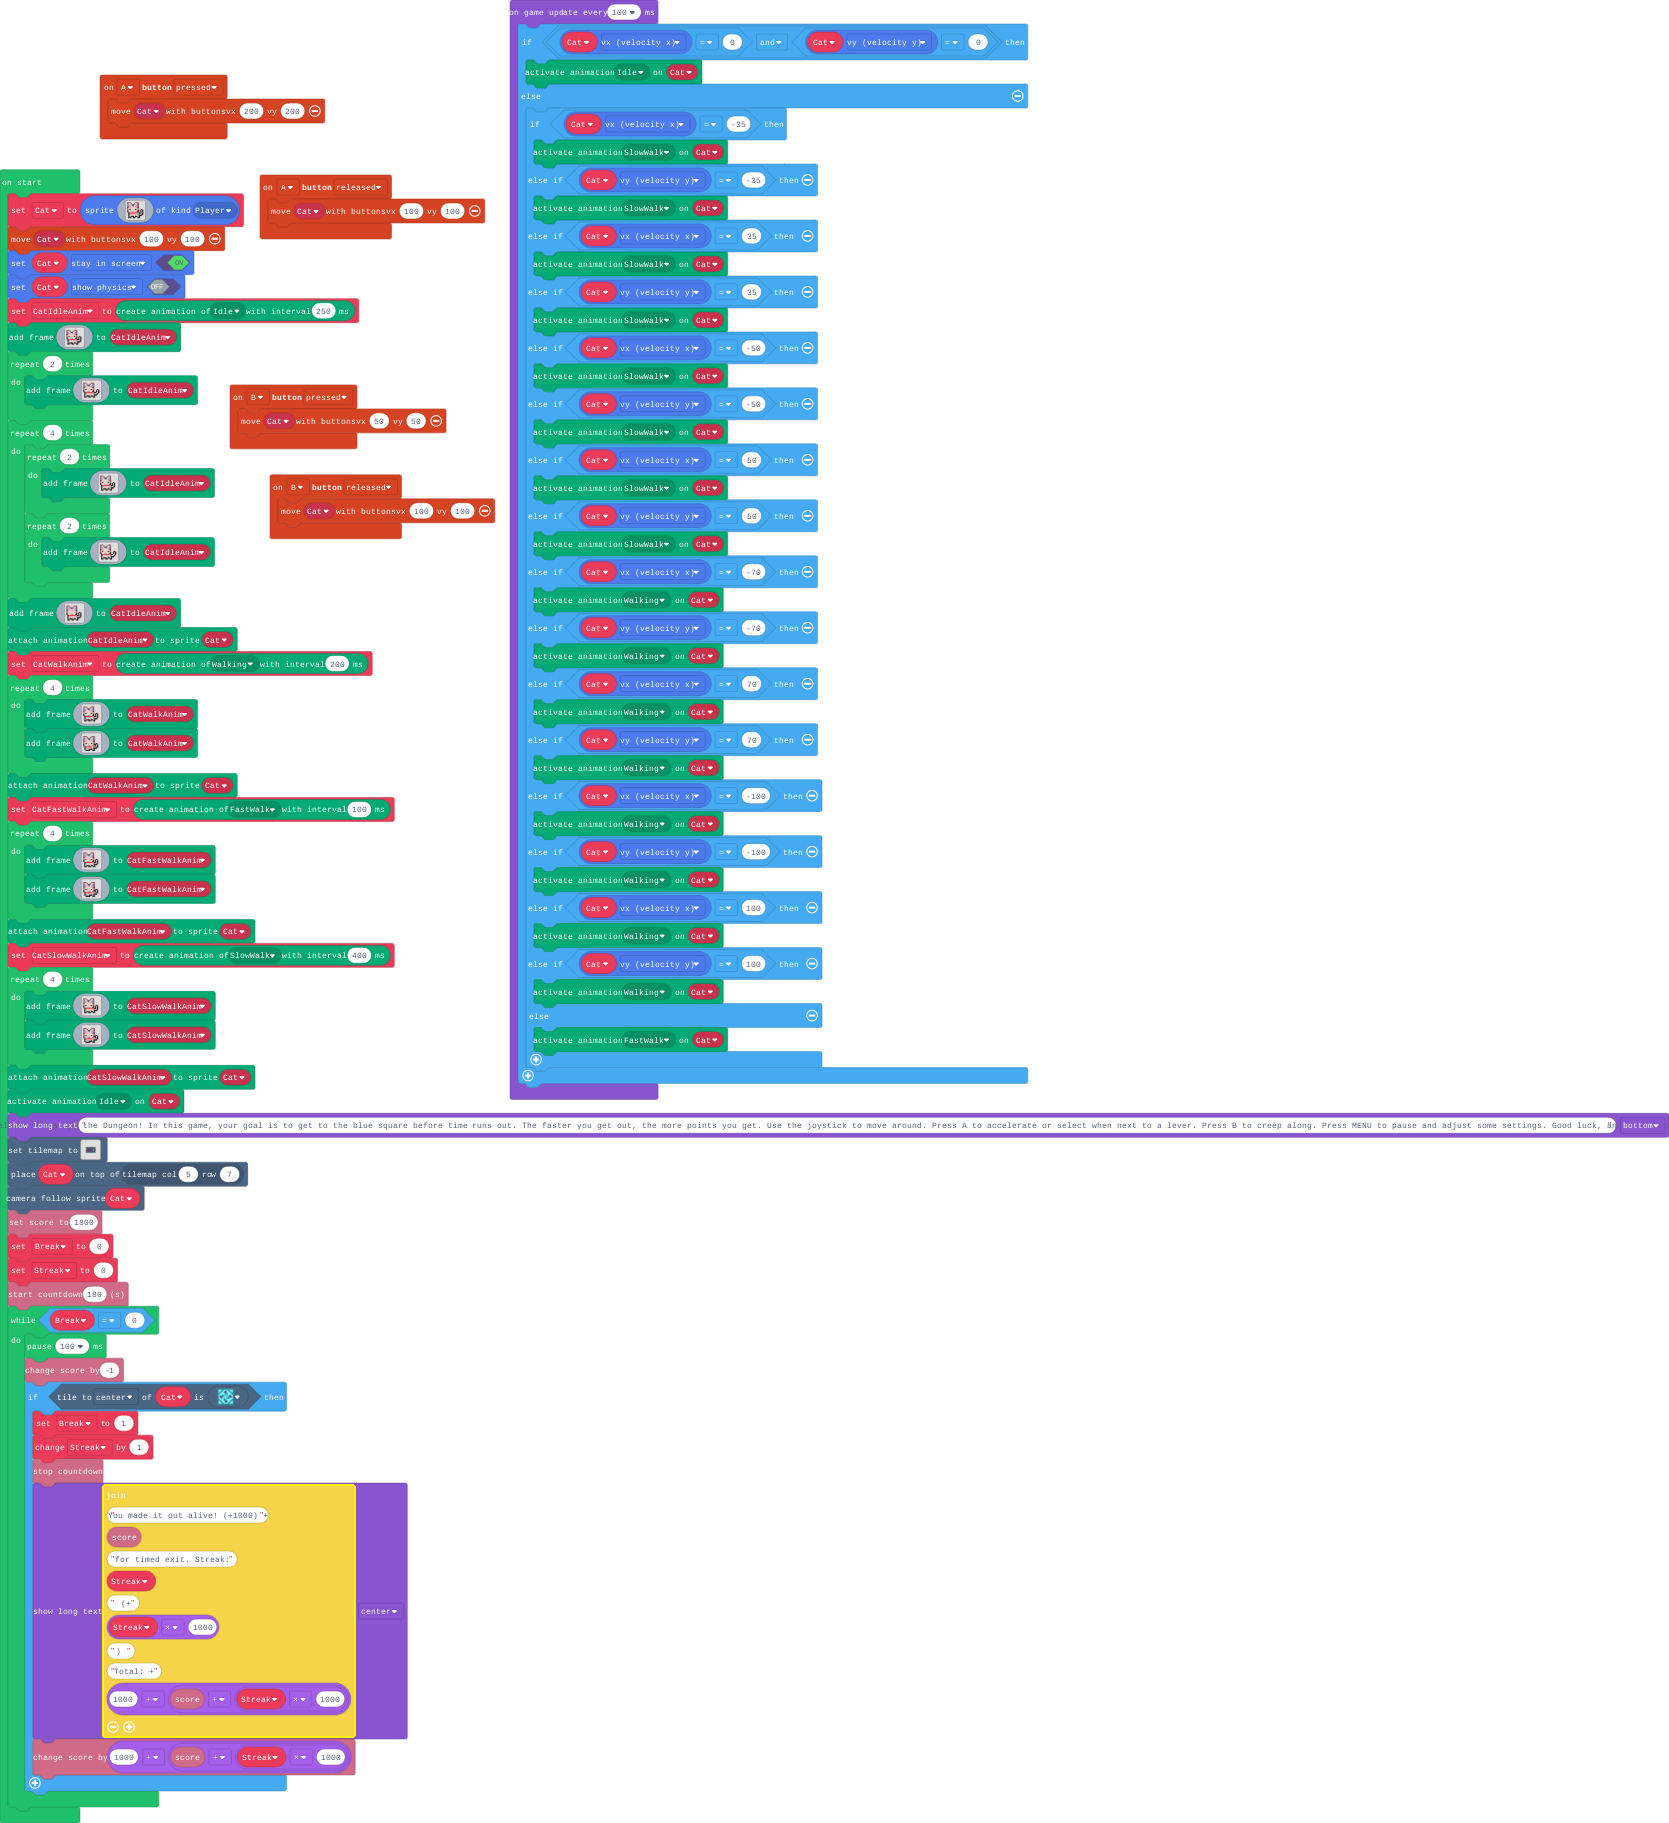
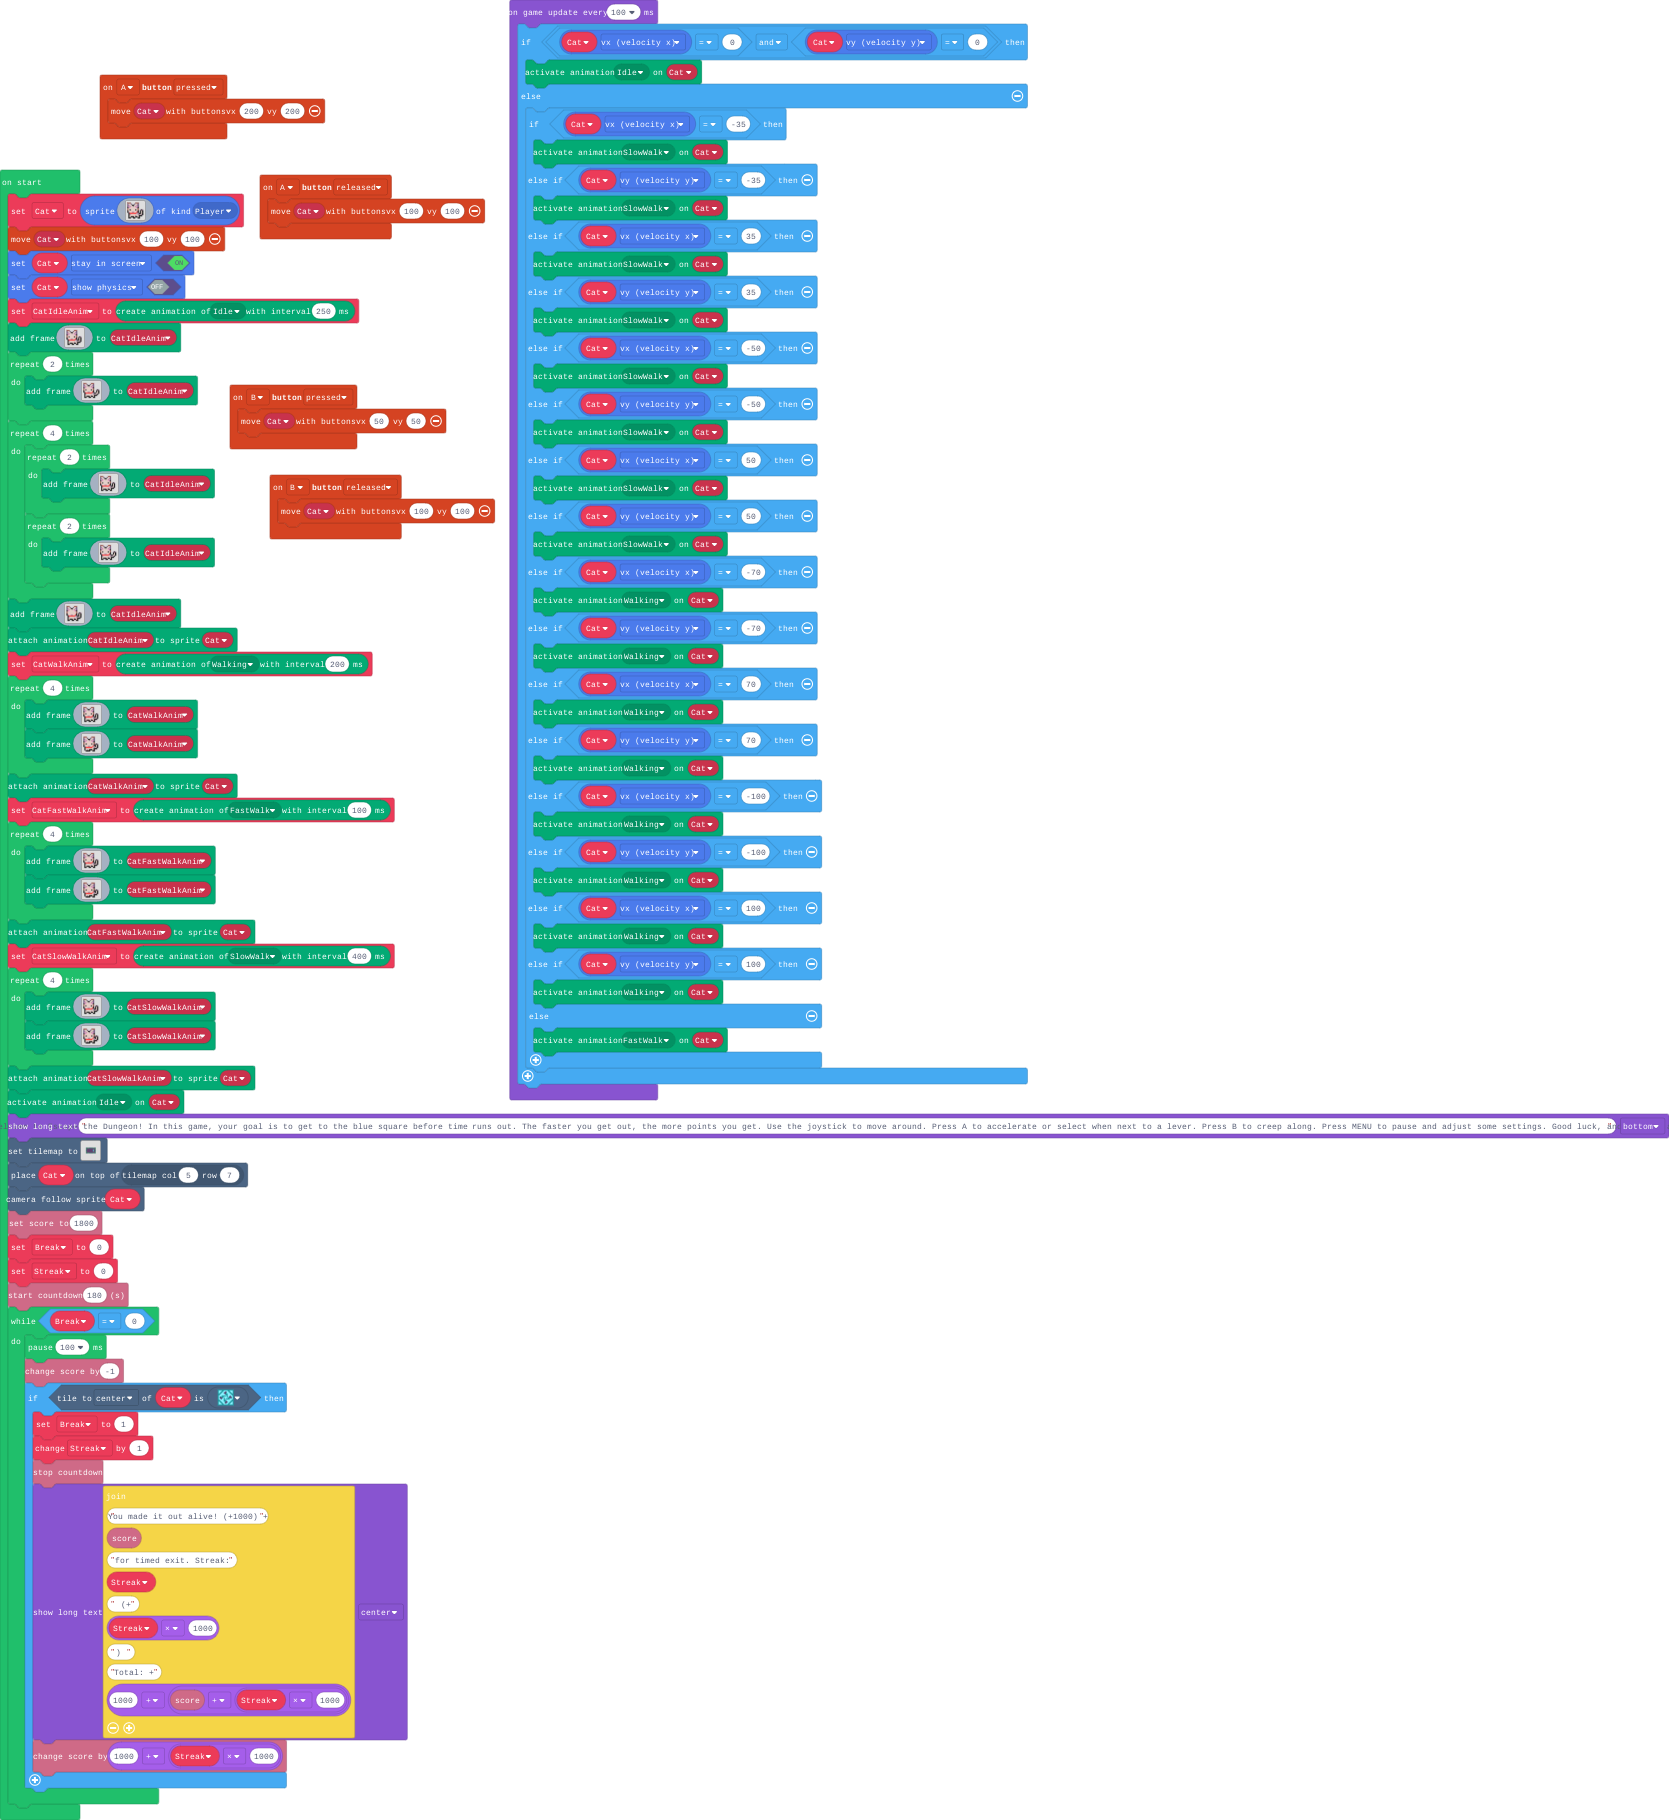
Update main.blocks, main.ts

Changed region(s): [[0.0, 0.0923, 0.997, 0.9846]]

diff --git a/main.ts b/main.ts
@@ -295,7 +295,7 @@ while (Break == 0) {
         Streak += 1
         info.stopCountdown()
         game.showLongText("You made it out alive! (+1000) +" + info.score() + " for timed exit. Streak: " + Streak + " (+" + Streak * 1000 + ") " + "Total: +" + (1000 + (info.score() + Streak * 1000)), DialogLayout.Center)
-        info.changeScoreBy(1000 + (info.score() + Streak * 1000))
+        info.changeScoreBy(1000 + Streak * 1000)
     }
 }
 game.onUpdateInterval(100, function () {
